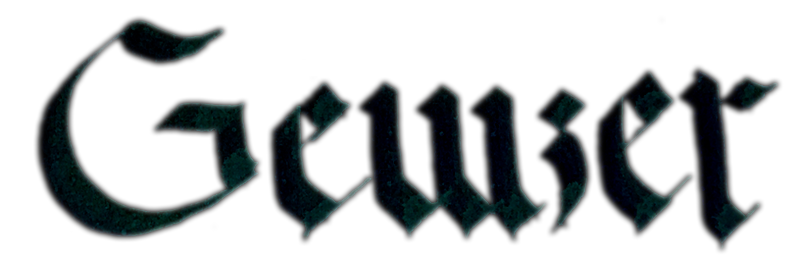
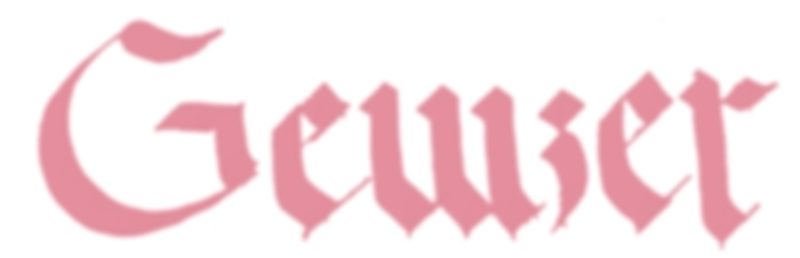
header img

diff --git a/src/App.css b/src/App.css
@@ -29,11 +29,15 @@ a:focus {
 .App-header {
   margin: auto;
   display: block;
-  margin-bottom: 1vh;
+  margin-bottom: 5vh;
   width: 100vw;
   height: 15vh;
   font-size: 16vh;
   color: rgb(253, 163, 163);
+}
+
+#header {
+  width: 60vh;
 }
 
 #headerSpan:hover {
@@ -85,7 +89,7 @@ p {
 }
 
 #bioBox {
-  color: rgb(252, 136, 136);
+  color: rgb(216, 146, 146);
   display: block;
   margin: auto;
   font-size: 4vh;

diff --git a/src/App.js b/src/App.js
@@ -29,7 +29,9 @@ class App extends React.Component {
         style={{ cursor: randString }}
       >
         <header className="App-header">
-          <span id="headerSpan">{header}</span>
+          <span id="headerSpan">
+            <img src={header} alt="gewzer" id="header"></img>
+          </span>
         </header>
         <img src={logo} className="App-logo" alt="logo" />
         <div id="bioBox">
